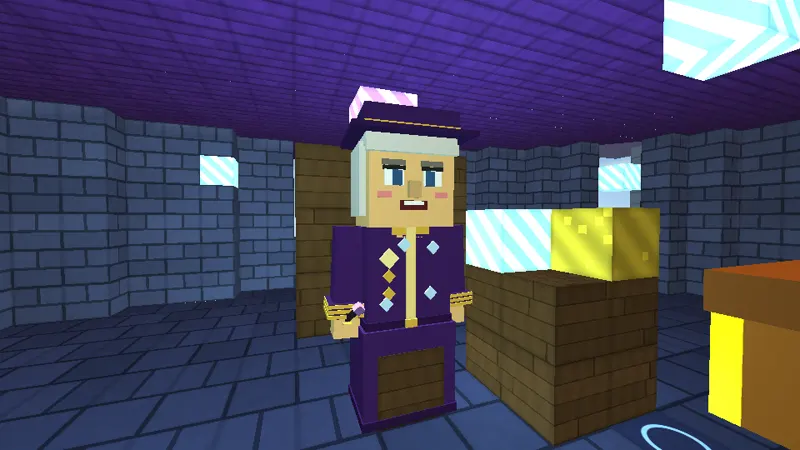
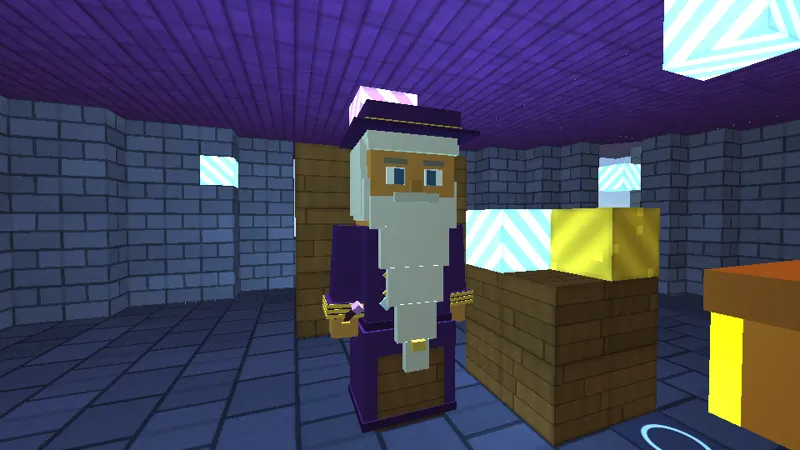
Боссы: новые снимки короля, Мастера с бородой и Чёрных Усов; вкладки паузы переносятся целиком, без разрыва слов
Claude-Session: https://claude.ai/code/session_019KLg86GHi5pUkqXdtbaN9o

diff --git a/theme.css b/theme.css
@@ -482,11 +482,11 @@ button, input, select, textarea { font-family: inherit; }
 
 /* ------------------------------------------------------------ pause: tabs «Меню» / «Звук» */
 .pause-box { width: min(520px, calc(100vw - 32px)); }
-.pause-tabs { display: flex; gap: 4px; padding: 4px; margin: 0 0 12px; background: rgba(5, 3, 18, 0.5); border: 1px solid var(--ui-border); border-radius: 14px; }
+.pause-tabs { display: flex; flex-wrap: wrap; gap: 4px; padding: 4px; margin: 0 0 12px; background: rgba(5, 3, 18, 0.5); border: 1px solid var(--ui-border); border-radius: 14px; }
 /* (Creative has five tabs: a wider window, and a tab never sticks out of the bar) */
 .pause-box:has(.pause-tab[data-pause-tab="pause-spells"]:not([hidden])) { width: min(700px, calc(100vw - 32px)); }
 .pause-box .pause-tab {
-    flex: 1 1 0; min-width: 0; overflow-wrap: anywhere;
+    flex: 1 1 auto; min-width: 0; white-space: nowrap; /* (too many for one row: whole tabs go to a second row — never a word broken) */
     width: auto; margin: 0; padding: 8px 6px; font-size: 0.9rem; border-radius: 10px; border: 1px solid transparent;
     background: transparent; color: var(--ui-muted); box-shadow: none;
 }
